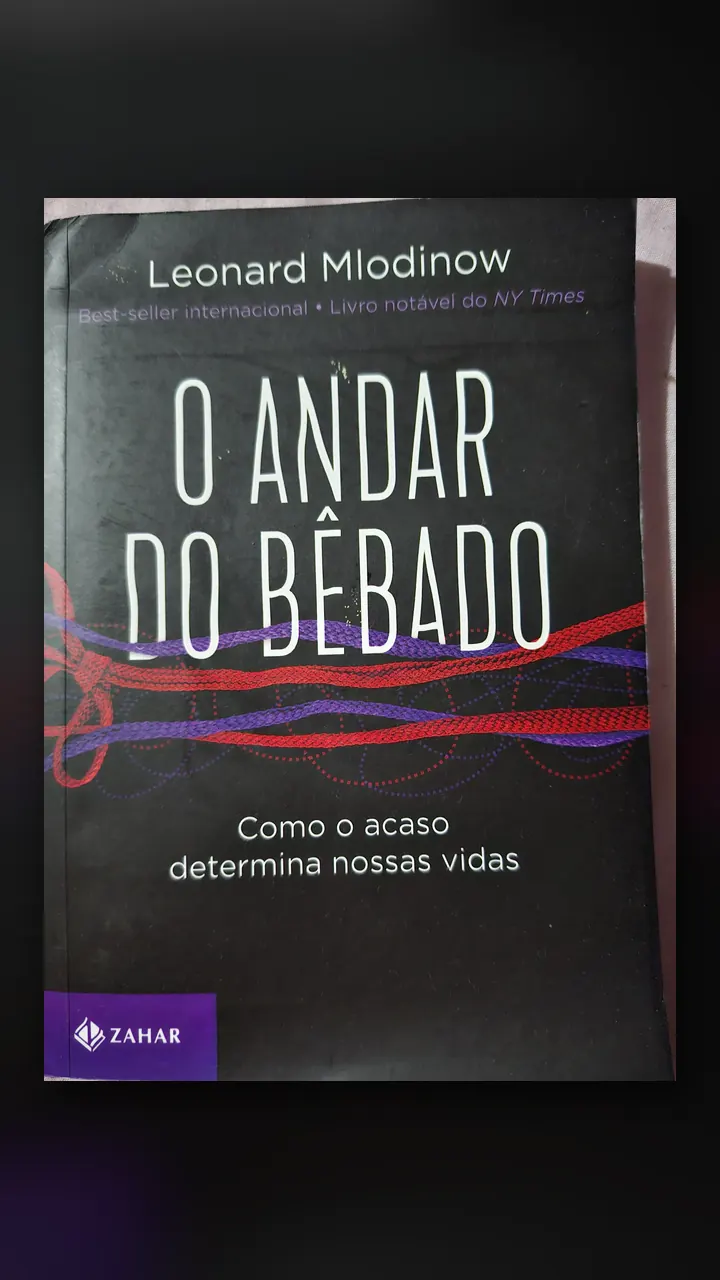
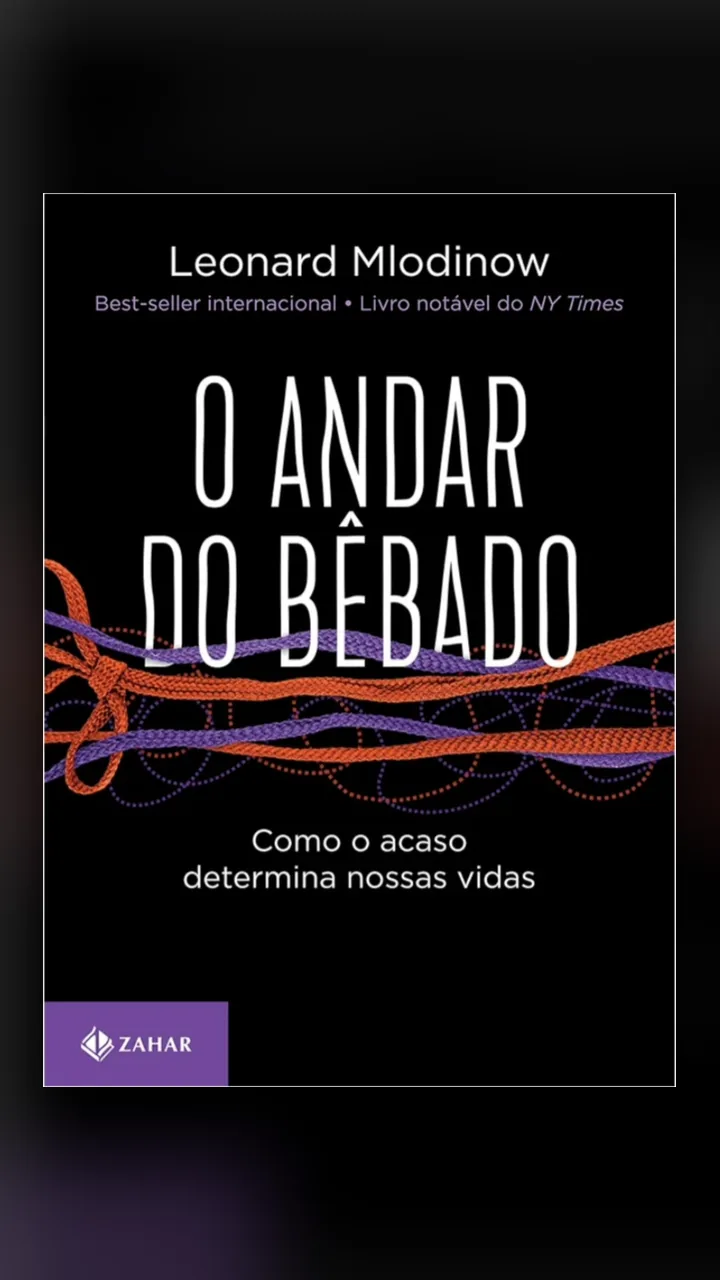
Adiciona 20 capas e 6 livros novos à estante (#1)
Capas em 9:16 (720x1280, webp) para Mindset, Inteligência Emocional,
As Armas da Persuasão, Como Chegar ao Sim, os livros de C. S. Lewis e
Rodrigo Bibo, e troca 6 capas fotografadas pelas versões oficiais.
Entram na estante: Hábitos Atômicos, Nação Dopamina, Retórica,
Noites Brancas, Cristianismo Puro e Simples e Os Quatro Amores.

Claude-Session: https://claude.ai/code/session_01KpMrYBna4G17o23NW6wFFz

diff --git a/index.html b/index.html
@@ -400,22 +400,26 @@ const shelves=[
  {nome:"Fé, mistério & filosofia",livros:[
   ["Odisseia","Homero",null,"Ulisses leva dez anos para voltar de Troia para casa. A aventura que deu origem a tantas outras.","capas/odisseia.webp"],
   ["Bíblia Ilustrada","Vários autores",5.0,"As histórias bíblicas acompanhadas de ilustrações que ajudam a enxergar cada cena."],
-  ["O Deus que Destrói Sonhos","Rodrigo Bibo",4.8,"E se Deus frustrar seus planos para te dar algo maior? Uma leitura que incomoda e consola."],
+  ["O Deus que Destrói Sonhos","Rodrigo Bibo",4.8,"E se Deus frustrar seus planos para te dar algo maior? Uma leitura que incomoda e consola.","capas/o-deus-que-destroi-sonhos.webp"],
   ["Ed & Lorraine Warren: Lugar Sombrio","Carmen Reed, Al Snedeker & Ray Garton",4.7,"Uma família se muda para uma antiga casa funerária em Connecticut. O que vem depois é difícil de explicar."],
   ["Ed & Lorraine Warren: Vidas Eternas","Robert Curran, Jack & Janet Smurl",4.6,"O caso da família Smurl, que relatou anos de ataques dentro da própria casa."],
   ["Ed & Lorraine Warren: Demonologistas","Gerald Brittle",4.9,"Os bastidores dos casos mais conhecidos do casal Warren. Para ler com a luz acesa."],
   ["Confissões","Santo Agostinho",4.7,"Agostinho conta a própria vida como uma longa conversa com Deus. Honesto até nos tropeços."],
   ["A Divina Comédia: Inferno","Dante Alighieri",4.8,"Dante desce aos nove círculos do inferno. Poesia, castigo e política da época num só caminho."],
   ["A Metamorfose","Franz Kafka",4.6,"Um homem acorda transformado em inseto, e o pior é como a família reage."],
+  ["Noites Brancas","Fiódor Dostoiévski",4.7,"Um sonhador solitário conhece uma moça numa ponte de São Petersburgo. Quatro noites e uma paixão que dói.","capas/noites-brancas.webp"],
   ["Bíblia Pastoral","Vários autores",5.0,"Tradução em linguagem acessível, com notas que ajudam a entender o contexto de cada texto."],
   ["Jesus Não é Quem Você Pensa","Tiago Mattes",4.5,"A partir do Evangelho de João, desmonta as versões de Jesus que a gente monta para caber nas próprias expectativas."],
-  ["Cartas de um Diabo a seu Aprendiz","C. S. Lewis",4.9,"Um demônio veterano ensina o sobrinho a desviar um homem comum. Irônico e certeiro."],
-  ["O Peso da Glória","C. S. Lewis",4.8,"Sermões e ensaios de C. S. Lewis sobre desejo, fé e o valor de cada pessoa."],
-  ["Como se Tornar um Cristão Inútil","Rodrigo Bibo",4.7,"Uma provocação contra a busca por palco na fé. Servir sem esperar medalha, a partir dos servos inúteis de Lucas 17."],
+  ["Cartas de um Diabo a seu Aprendiz","C. S. Lewis",4.9,"Um demônio veterano ensina o sobrinho a desviar um homem comum. Irônico e certeiro.","capas/cartas-de-um-diabo.webp"],
+  ["O Peso da Glória","C. S. Lewis",4.8,"Sermões e ensaios de C. S. Lewis sobre desejo, fé e o valor de cada pessoa.","capas/o-peso-da-gloria.webp"],
+  ["Cristianismo Puro e Simples","C. S. Lewis",4.9,"Nasceu de palestras no rádio durante a guerra. Defende o essencial da fé cristã com lógica e clareza.","capas/cristianismo-puro-e-simples.webp"],
+  ["Os Quatro Amores","C. S. Lewis",4.7,"Afeição, amizade, eros e caridade. Lewis mostra o que cada amor tem de bom e onde cada um pode estragar.","capas/os-quatro-amores.webp"],
+  ["Como se Tornar um Cristão Inútil","Rodrigo Bibo",4.7,"Uma provocação contra a busca por palco na fé. Servir sem esperar medalha, a partir dos servos inúteis de Lucas 17.","capas/cristao-inutil.webp"],
   ["O Andar do Bêbado","Leonard Mlodinow",4.7,"Como o acaso governa mais da nossa vida do que gostamos de admitir.","capas/o-andar-do-bebado.webp"],
   ["O Príncipe","Nicolau Maquiavel",4.6,"Manual cru sobre conquistar e manter o poder. Explica muita coisa que se vê até hoje.","capas/o-principe.webp"],
   ["Manual","Epicteto",4.8,"Epicteto separa o que depende de nós do que não depende. Cabe no bolso e dura a vida inteira."],
   ["Meditações","Marco Aurélio",4.9,"Anotações pessoais de um imperador romano tentando ser uma pessoa melhor.","capas/meditacoes.webp"],
+  ["Retórica","Aristóteles",4.6,"Caráter, emoção e lógica: os três caminhos para convencer alguém, descritos há mais de dois mil anos.","capas/retorica.webp"],
   ["Arrume a Sua Cama","William H. McRaven",4.5,"Lições do treinamento dos SEALs da Marinha americana. Mudanças grandes começam por hábitos pequenos.","capas/arrume-a-sua-cama.webp"],
   ["18 Princípios para Você Evoluir","Charles Mendlowicz",4.4,"O Economista Sincero reúne o que aprendeu sobre disciplina, dinheiro e propósito. Capítulos curtos, fáceis de aplicar."],
   ["Amor & Gelato","Jenna Evans Welch",4.5,"Uma viagem à Itália, o diário da mãe e um segredo de família. Leve e doce.","capas/amor-e-gelato.webp"]]},
@@ -427,17 +431,19 @@ const shelves=[
   ["O Ego é Seu Inimigo","Ryan Holiday",4.7,"Como o ego atrapalha na subida, no sucesso e na queda. Estoicismo aplicado."],
   ["Nada Pode Me Ferir","David Goggins",4.8,"Goggins conta como saiu de uma vida difícil para provas extremas. Pura disciplina."],
   ["Ultra-aprendizado","Scott H. Young",4.7,"Projetos intensos para aprender rápido o que importa, com exemplos de quem fez."],
-  ["Como Chegar ao Sim","Roger Fisher, William Ury e Bruce Patton",4.7,"Negociar pelos interesses, e não pelas posições. O método de Harvard que virou referência."],
+  ["Como Chegar ao Sim","Roger Fisher, William Ury e Bruce Patton",4.7,"Negociar pelos interesses, e não pelas posições. O método de Harvard que virou referência.","capas/como-chegar-ao-sim.webp"],
   ["As 48 Leis do Poder","Robert Greene",4.6,"Regras do poder tiradas de séculos de história. Serve para usar ou para se defender."],
   ["Brevidade Inteligente","Jim VandeHei, Mike Allen e Roy Schwartz",4.5,"Escrever menos e dizer mais. Os fundadores do Axios ensinam a ir direto ao ponto.","capas/brevidade-inteligente.webp"],
-  ["Mindset","Carol S. Dweck",4.7,"A diferença entre achar que talento é fixo e saber que ele cresce com esforço."],
-  ["As Armas da Persuasão","Robert B. Cialdini",4.8,"Os gatilhos que fazem a gente dizer sim, e como perceber quando estão sendo usados."],
+  ["Mindset","Carol S. Dweck",4.7,"A diferença entre achar que talento é fixo e saber que ele cresce com esforço.","capas/mindset.webp"],
+  ["As Armas da Persuasão","Robert B. Cialdini",4.8,"Os gatilhos que fazem a gente dizer sim, e como perceber quando estão sendo usados.","capas/armas-da-persuasao.webp"],
   ["Como Fazer Amigos e Influenciar Pessoas","Dale Carnegie",4.9,"Escrito em 1936 e ainda atual: interesse genuíno pelos outros abre portas."],
-  ["Inteligência Emocional","Daniel Goleman",4.7,"Lidar com as próprias emoções conta tanto quanto o QI para ir longe."],
+  ["Inteligência Emocional","Daniel Goleman",4.7,"Lidar com as próprias emoções conta tanto quanto o QI para ir longe.","capas/inteligencia-emocional.webp"],
   ["Comece pelo Porquê","Simon Sinek",4.6,"Pessoas seguem quem sabe por que faz o que faz. A ideia é simples e muda muito.","capas/comece-pelo-porque.webp"],
   ["O Que Todo Corpo Fala","Joe Navarro",4.7,"Um ex-agente do FBI ensina a ler o que o corpo diz quando a boca se cala.","capas/o-que-todo-corpo-fala.webp"],
   ["Como Falar em Público e Encantar as Pessoas","Dale Carnegie",4.6,"Dicas práticas para perder o medo do palco e prender a atenção de quem ouve.","capas/falar-em-publico.webp"],
   ["O Poder do Hábito","Charles Duhigg",4.8,"Gatilho, rotina e recompensa. Entender o ciclo é o primeiro passo para mudar um hábito.","capas/o-poder-do-habito.webp"],
+  ["Hábitos Atômicos","James Clear",4.9,"Melhorar 1% por dia parece pouco, mas se acumula. Um método prático para criar bons hábitos e largar os ruins.","capas/habitos-atomicos.webp"],
+  ["Nação Dopamina","Anna Lembke",4.7,"Prazer demais deixa o cérebro em débito. Uma psiquiatra explica o vício moderno e como recuperar o equilíbrio.","capas/nacao-dopamina.webp"],
   ["Negocie Como Se Sua Vida Dependesse Disso","Chris Voss e Tahl Raz",4.9,"Um ex-negociador de sequestros do FBI mostra como empatia vence argumentos.","capas/negocie.webp"]]}
 ];
 const tastes=[
